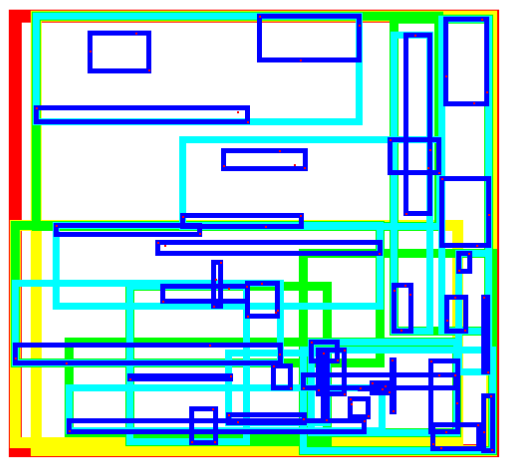
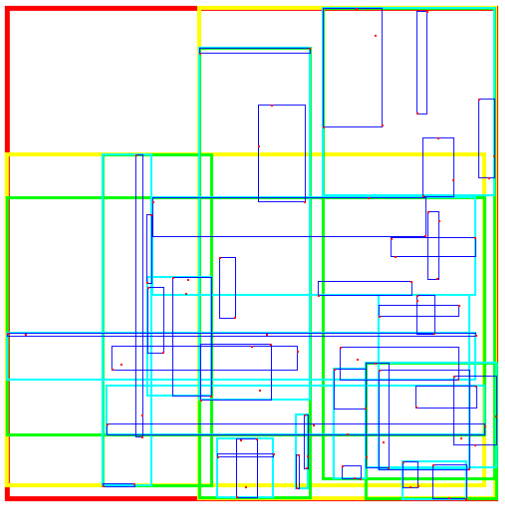
update image

diff --git a/src/test/java/com/github/davidmoten/rtree/RTreeTest.java b/src/test/java/com/github/davidmoten/rtree/RTreeTest.java
@@ -49,7 +49,7 @@ public class RTreeTest {
 
 	@Test
 	public void testVisualizer() {
-		RTree tree = new RTree(8);
+		RTree tree = new RTree(4);
 		int n = 100;
 		for (int i = 0; i < n; i++) {
 			Entry entry = new Entry(new Object(), random());
@@ -57,7 +57,6 @@ public class RTreeTest {
 		}
 		tree.visualize(600, 600, new Rectangle(-20, -20, 1100, 1100), 5).save(
 				new File("target/tree.png"), "PNG");
-		;
 	}
 
 	private static Rectangle r(int n) {

diff --git a/src/main/java/com/github/davidmoten/rtree/Visualizer.java b/src/main/java/com/github/davidmoten/rtree/Visualizer.java
@@ -93,8 +93,8 @@ public class Visualizer {
 		for (RectangleDepth node : nodes) {
 			Color color = Color.getHSBColor(node.getDepth() / (maxDepth + 1f),
 					1f, 1f);
-			g.setStroke(new BasicStroke(
-					2 * (maxDepth - node.getDepth() + 2) - 1));
+			g.setStroke(new BasicStroke(Math.max(0.5f,
+					(maxDepth - node.getDepth() + 1) - 1)));
 			g.setColor(color);
 			Rectangle r = node.getRectangle();
 			drawRectangle(g, r);
